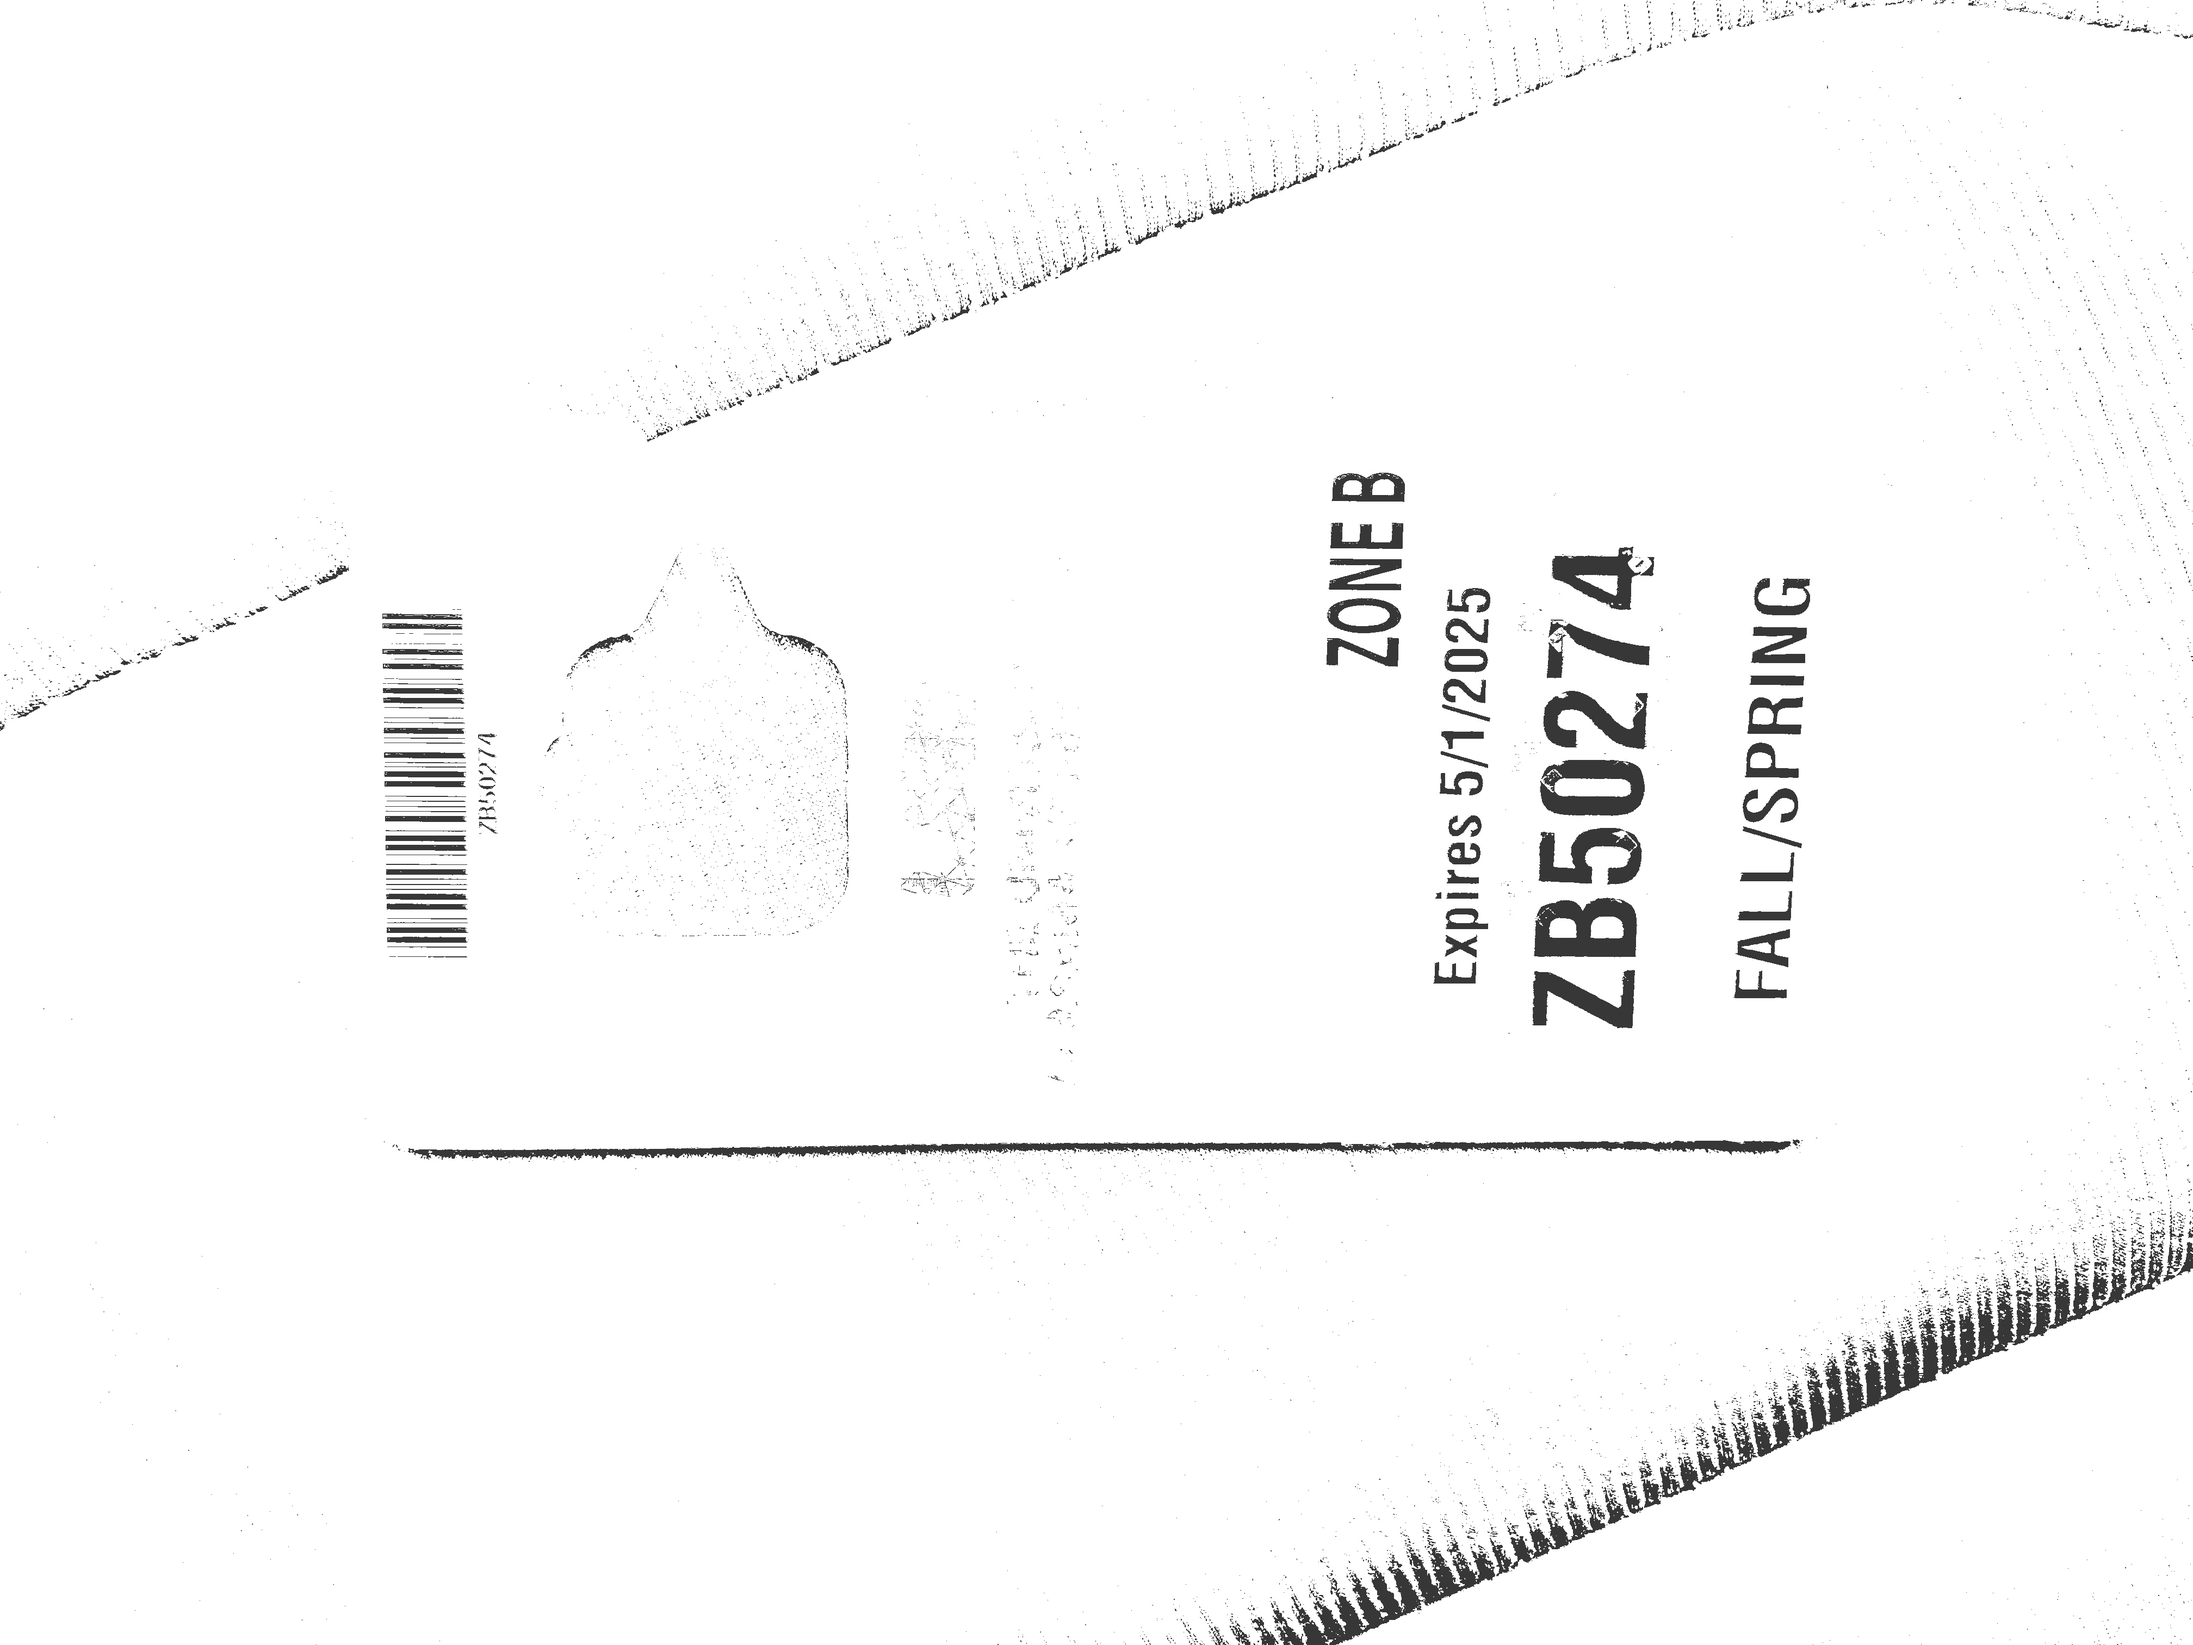
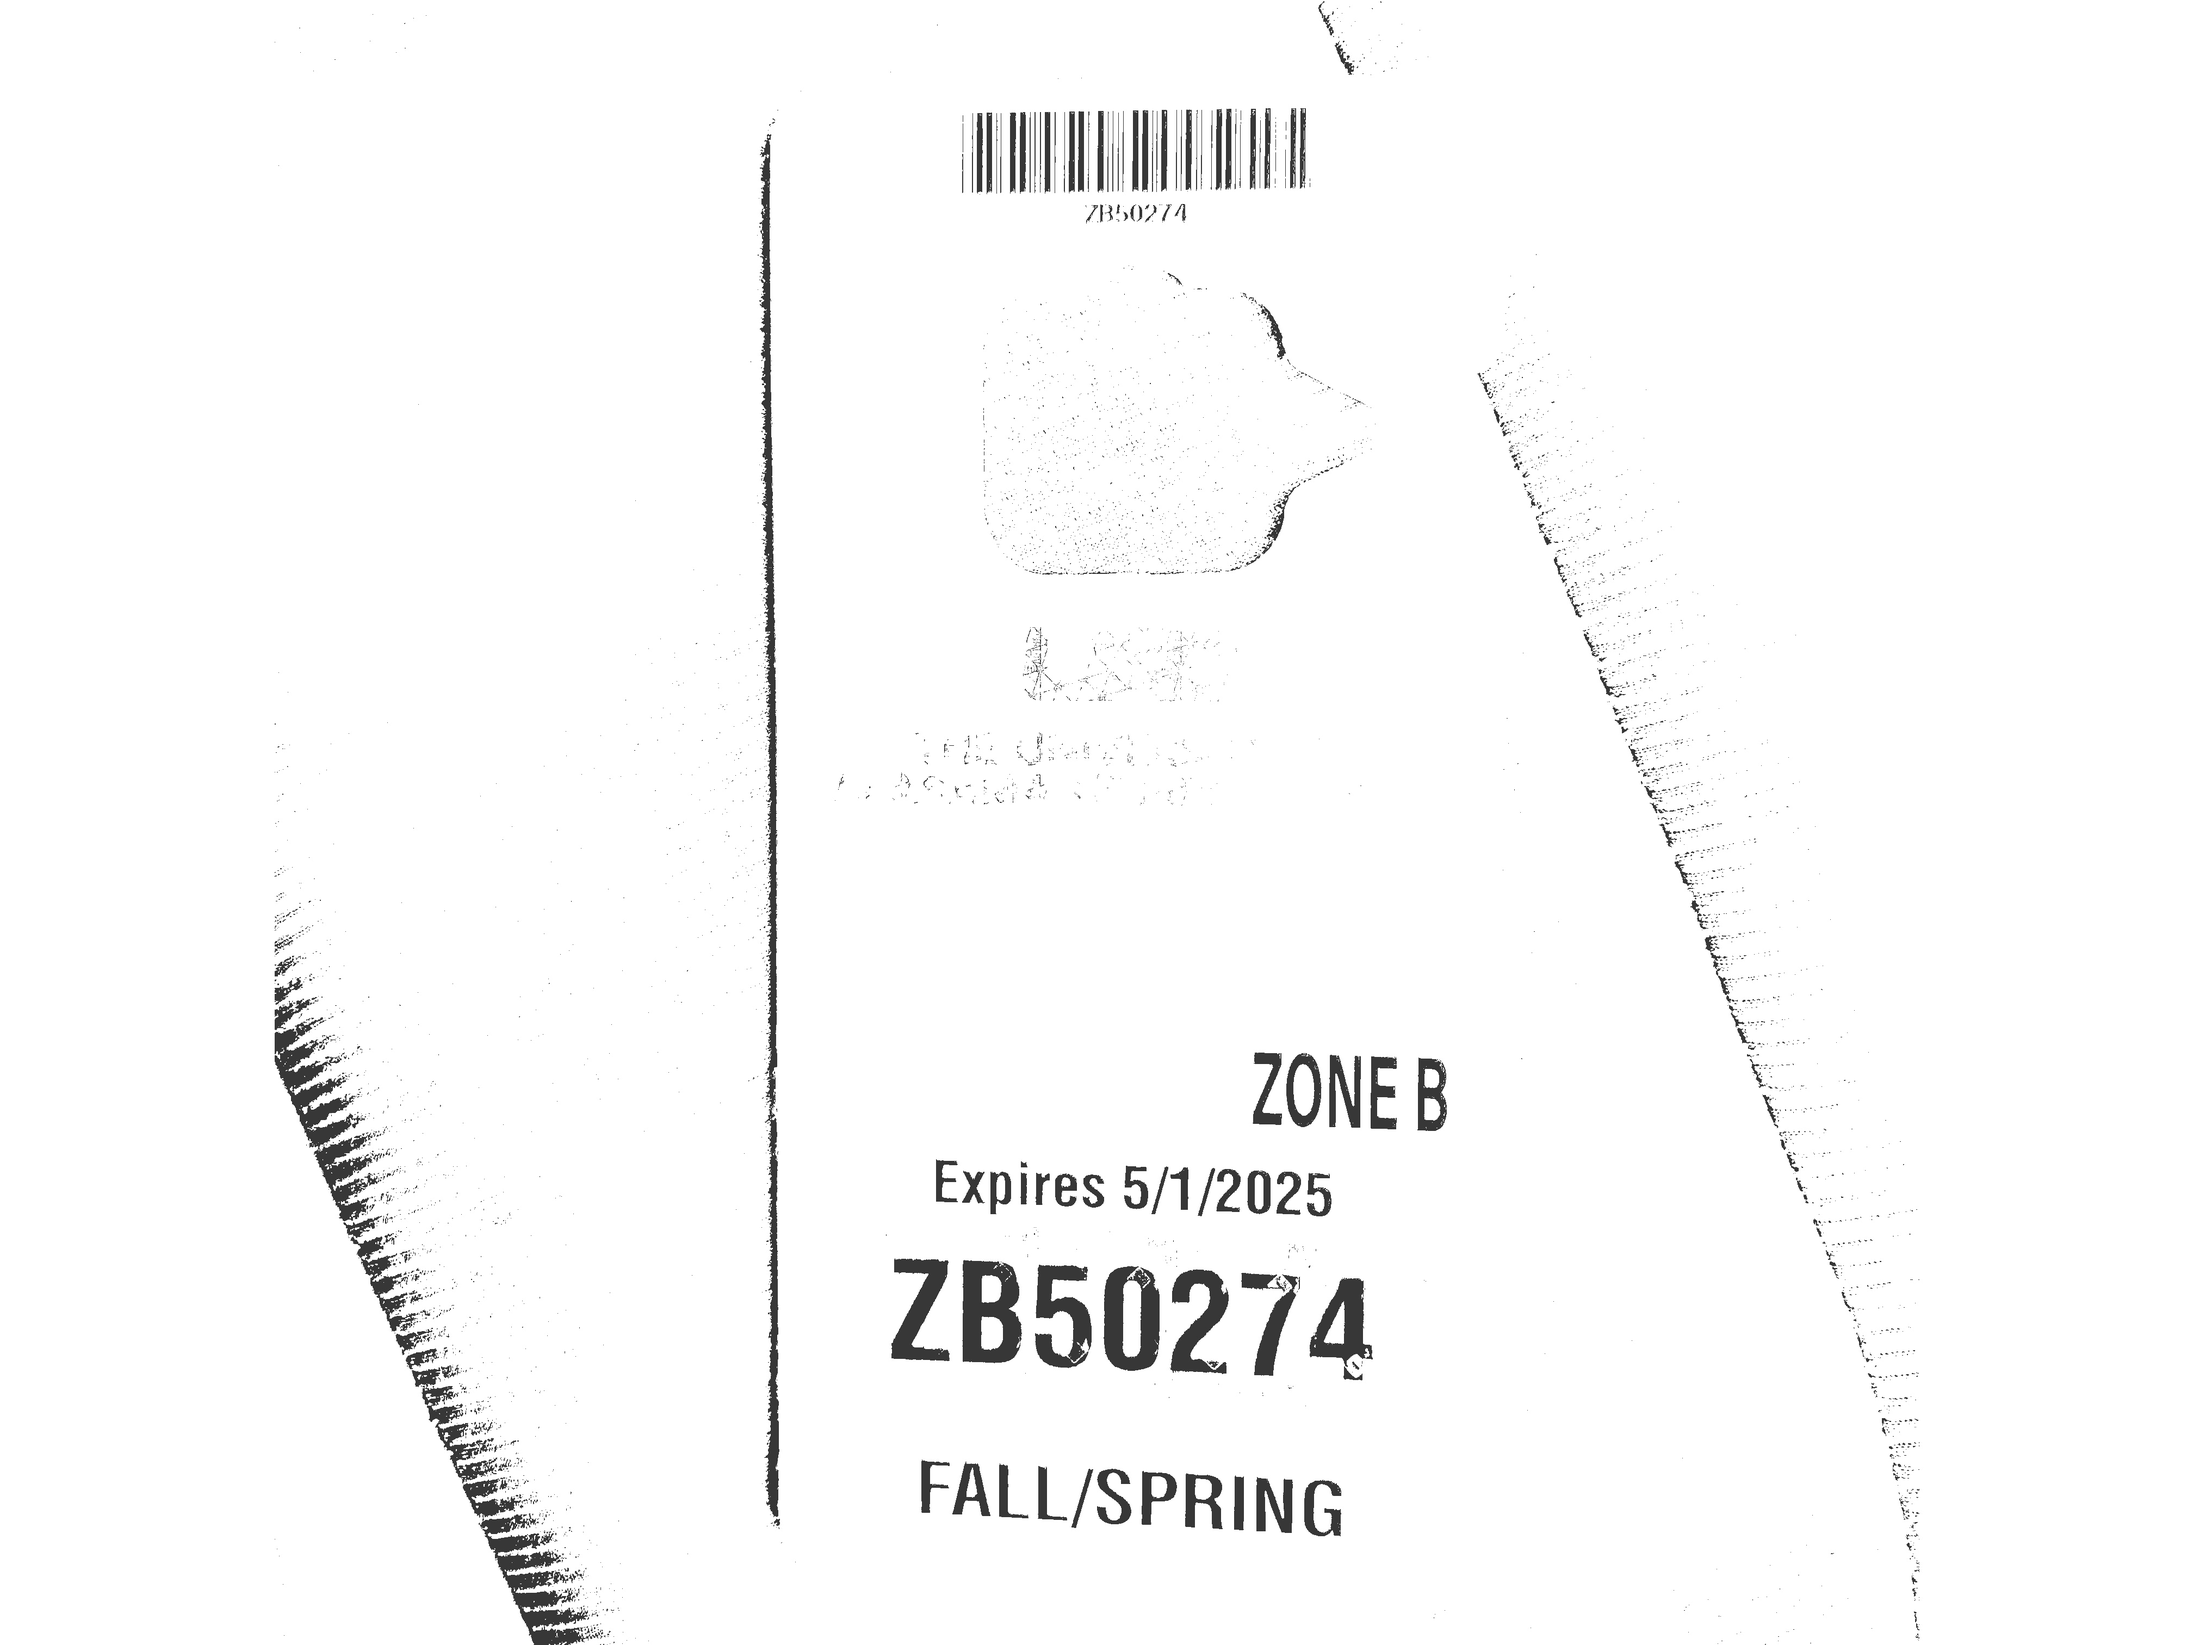
rotated image

diff --git a/image.py b/image.py
@@ -1,6 +1,6 @@
 import cv2
 import numpy as np
-from pytesseract import pytesseract
+from pytesseract import pytesseract, Output
 
 # Load an image from file
 image = cv2.imread('uploads/test1.jpg')  
@@ -15,7 +15,25 @@ invert_image = cv2.bitwise_not(image)
 # Convert the image to grayscale
 gray = cv2.cvtColor(invert_image, cv2.COLOR_BGR2GRAY)
 
-thresh = cv2.threshold(gray, 220, 200, cv2.THRESH_BINARY)[1]
+osd = pytesseract.image_to_osd(gray, output_type=Output.DICT)
+rotation_angle = osd['rotate']  # Angle to rotate the image
+
+print(f"Detected rotation angle: {rotation_angle} degrees")
+
+# Rotate the image to correct orientation
+if rotation_angle != 0:
+    # Get the image dimensions
+    (h, w) = gray.shape[:2]
+    center = (w // 2, h // 2)
+
+    # Rotate the image
+    rotation_matrix = cv2.getRotationMatrix2D(center, -rotation_angle, 1.0)
+    rotated_image = cv2.warpAffine(gray, rotation_matrix, (w, h))
+else:
+    rotated_image = gray
+
+
+thresh = cv2.threshold(rotated_image, 220, 200, cv2.THRESH_BINARY)[1]
 cv2.imwrite('uploads/thresh.jpg', thresh)
 
 inverted_thresh = cv2.bitwise_not(thresh)
@@ -32,9 +50,9 @@ cv2.imwrite('uploads/inverted_thresh.jpg', inverted_thresh)
 # Set the image to black and white depending on each pixel intensity
 #thresh = cv2.adaptiveThreshold(equilized, 255, cv2.ADAPTIVE_THRESH_GAUSSIAN_C, cv2.THRESH_BINARY, 11, 2)
 
-kernel = np.array([[-1, -1, -1], 
-                 [-1,  9, -1], 
-                  [-1, -1, -1]])
+#kernel = np.array([[-1, -1, -1], 
+ #                [-1,  9, -1], 
+  #                [-1, -1, -1]])
 
 #sharpened = cv2.filter2D(thresh, -1, kernel)
 
